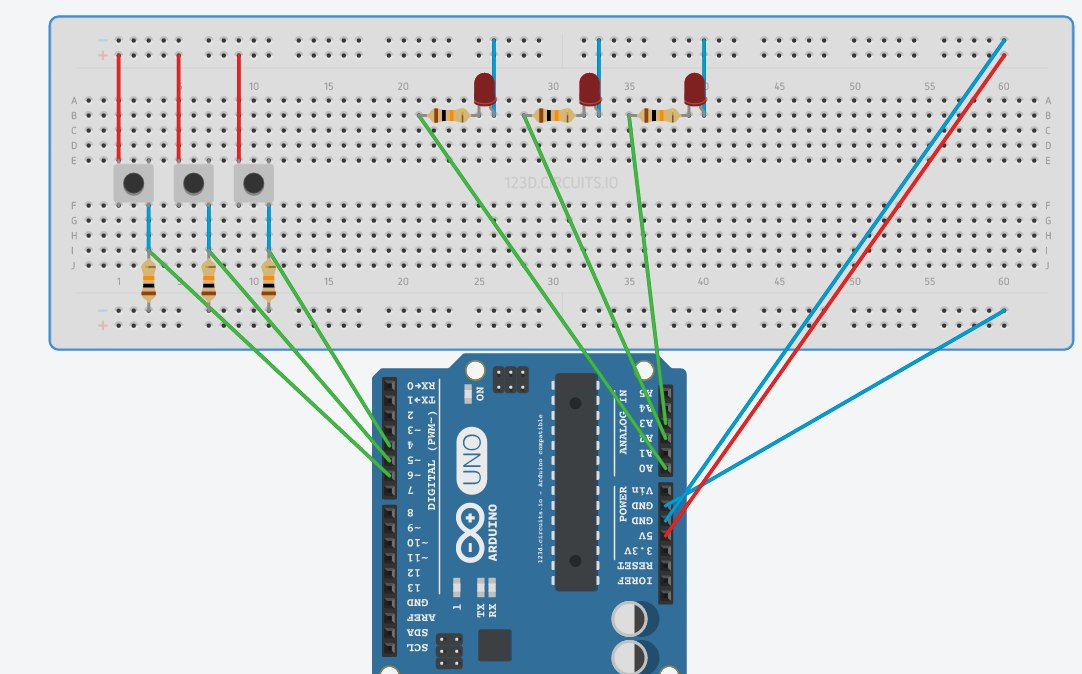
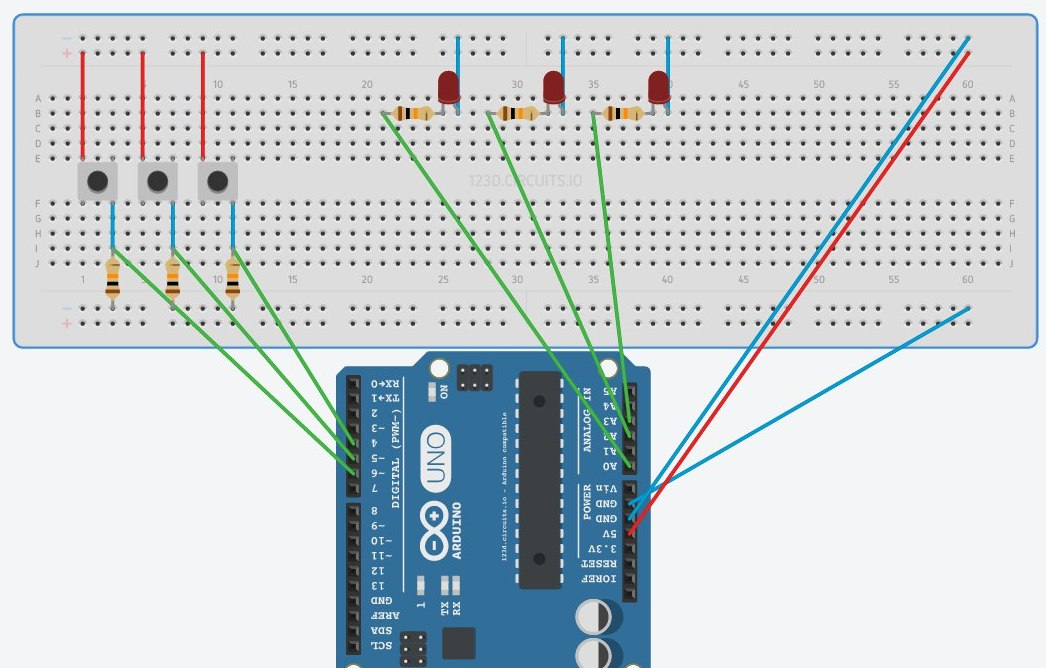
Добавлены картинки, дописана статья (до кода) и обновлен код.

Changed region(s): [[0.0, 0.0, 1.0, 1.0]]

diff --git a/readme.md b/readme.md
@@ -7,4 +7,29 @@
 Мы с друзьями любим играть в интеллектуальные игры (ЧГК, Свояк, Брэйн-Ринг) и порой посещаем очные турниры, где часто используют брейн-системы. К сожалению, порой мы даже боялись садиться за игровое место, не говоря уже о нажатии на игровую кнопку. Поэтому я решил сделать свою систему с кнопками и лампочками, чтобы играть в своем кругу и тренироваться.
 
 ## 1. Выбор плафтормы
-Сперва в проекте задумывалось всего 3 кнопки (как в стандартной "Своей Игре" по телевизору), но позже было расширено до пяти. Исходя из этого, мне была необходима плата с шестью (5 игроков и кнопка старта) цифровым входами и 6 аналоговыми. Связываться с [ЛУТ](https://cxem.net/master/45.php) мне совершенно не хотелось, поэтому я решил остановиться на чем-то более простом и понятном. Например, на Arduino. По количеству портов и компактности мне приглянулась Arduino Nano. Вот распиновка платы. ![ArduinoNanoPinout](https://i.pinimg.com/originals/80/71/27/807127e3a4d875efdea4f912cd67b1b7.jpg)
+Сперва в проекте задумывалось всего 3 кнопки (как в стандартной "Своей Игре" по телевизору), но позже было расширено до пяти. Исходя из этого, мне была необходима плата с шестью (5 игроков и кнопка старта) цифровым входами и 6 аналоговыми. Связываться с [ЛУТ](https://cxem.net/master/45.php) мне совершенно не хотелось, поэтому я решил остановиться на чем-то более простом и понятном. Например, на Arduino. По количеству портов и компактности мне приглянулась Arduino Nano. Вот распиновка платы: ![ArduinoNanoPinout](https://i.pinimg.com/originals/80/71/27/807127e3a4d875efdea4f912cd67b1b7.jpg)
+
+## 2. Перифирия
+### Порты подключения
+В качестве портов подключения (между кнопкой и корпусом системы) я сразу же рассматривал audio jack 3.5mm, так как предполагалось, что кнопки будут часто двигаться (ведь игроки деражт их в руках), а у jack есть фиксация контакта. Более того, на случай резкого выдергивания кнопки из корпуса системы больше подходил jack чем RJ-22 или RJ-45. Да и использовать RJ-45 для двухконтактного соединения мне показалось слишком жирным. Плюсом являлось и то, что на случай выхода из строя провода, его можно было бы купить в любом магазине бытовой техники. Также положительной стороной оказалось легкое крепление в корпус. Необходимо лишь сделать отверстие определенного диаметра и закрепить кольцом с обратной стороны![jack](https://olvit.by/image/cache/catalog/Razjemy/4ead83a14905c-500x500.jpg)
+### Лампочки и кнопки...
+..были выбраны самые простые. Так как к середине проекта я решил уложиться хотя бы в 3000₽, то выбирать антивандальные кнопки за 290₽-340₽ было нецелесообразно. По итогу кнопка стала выглядеть как-то так: ![Кнопка](images/button.jpg)
+### Корпуса
+Корпуса оказались самыми дорогими элементами в этом проекте. Корпус для системы вышел в 450₽, а для кнопки в 250₽. (при учете, что кнопок стало 5).
+### Провода
+Провода выбрал экранированные, двухжильные. Достаточно толстые.
+### Схема подключения
+(тут будет схема, а пока вот)![схема](images/scheme1.0.jpg)
+
+## 3. Логика работы системы
+Логика работы системы достаточно проста:
+1. Система ожидает старта таймера.
+2. Если таймер запущен, то происходит опрос кнопок.
+3. Если кнопка нажата, то таймер останавливается, и зажигается лампочка.
+
+## 4. Реализация
+Конечно же, реализовывать систему я начал постепенно. Сперва спаял одну кнопку и проверил код, потом втору, потом третью. Но представим, что уже все подключено.    
+
+~~~~
+int timeLimit = 30000;
+~~~~
